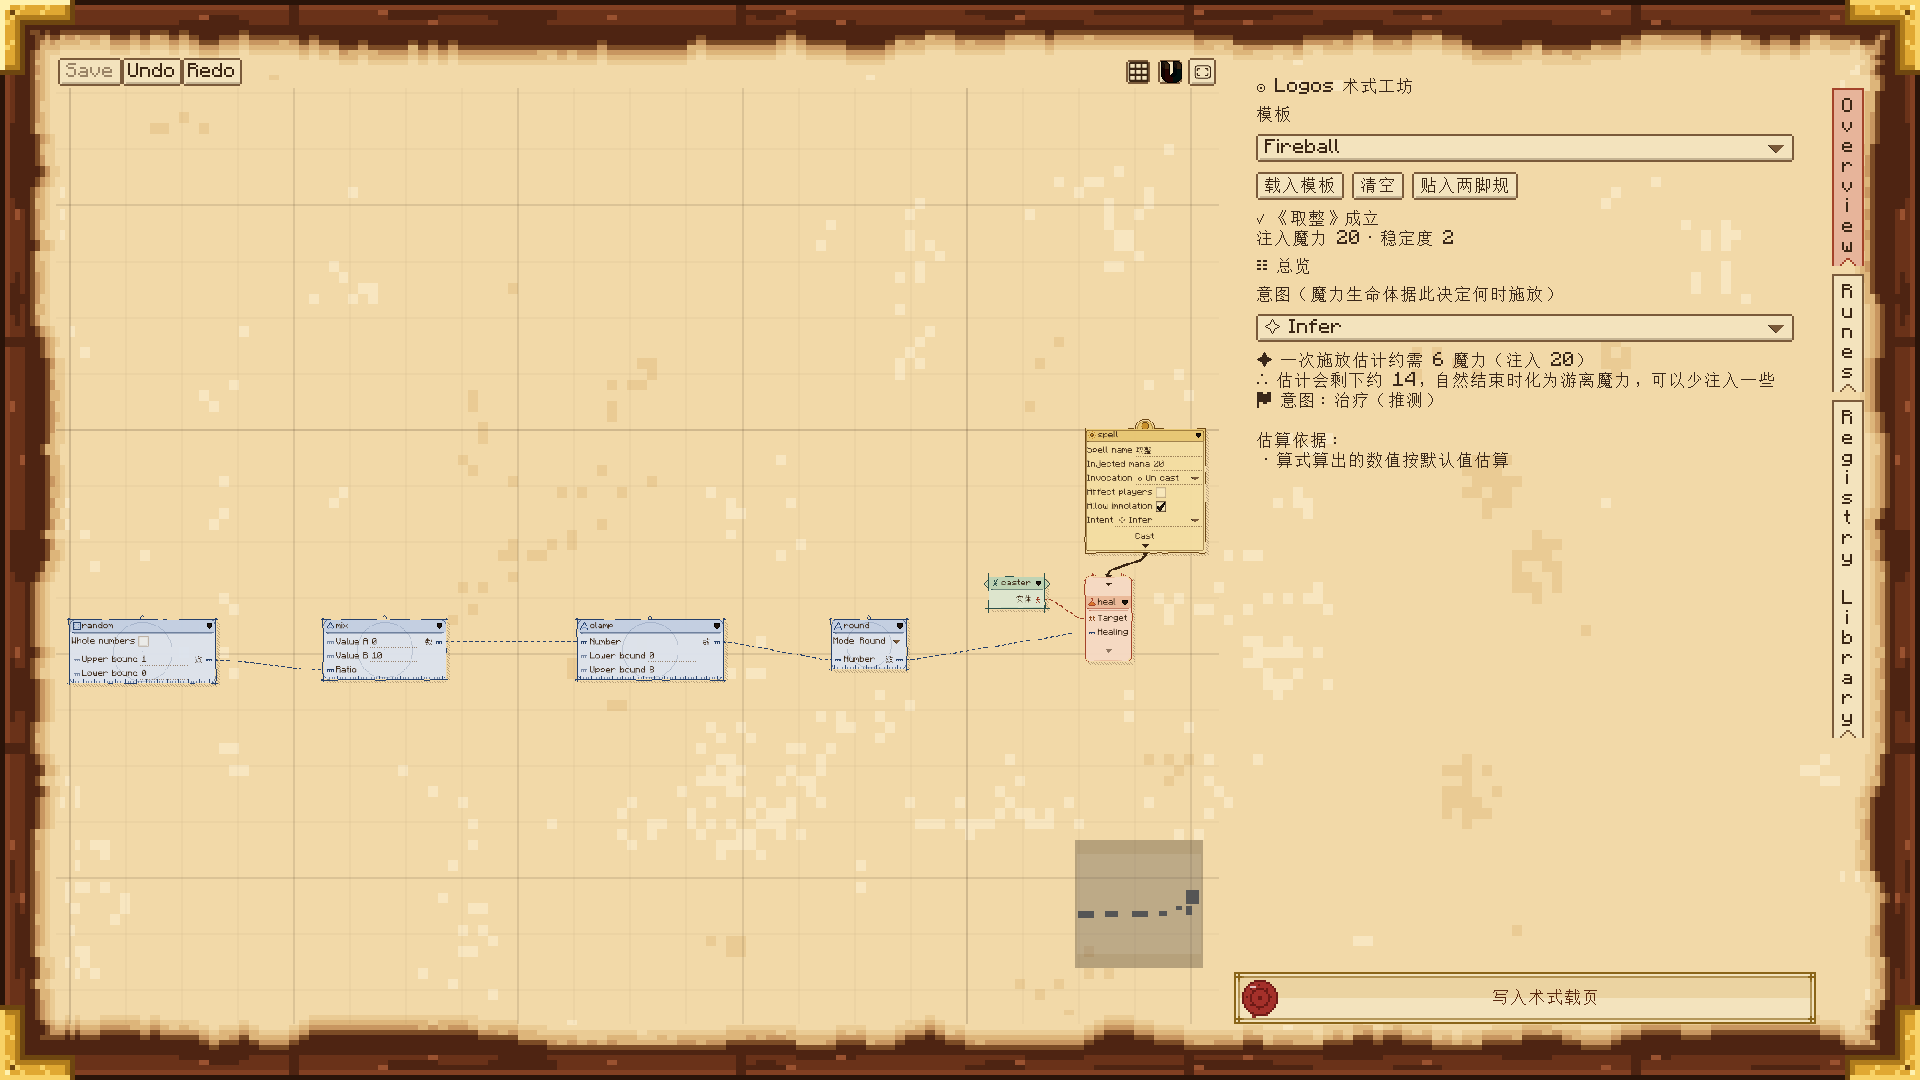
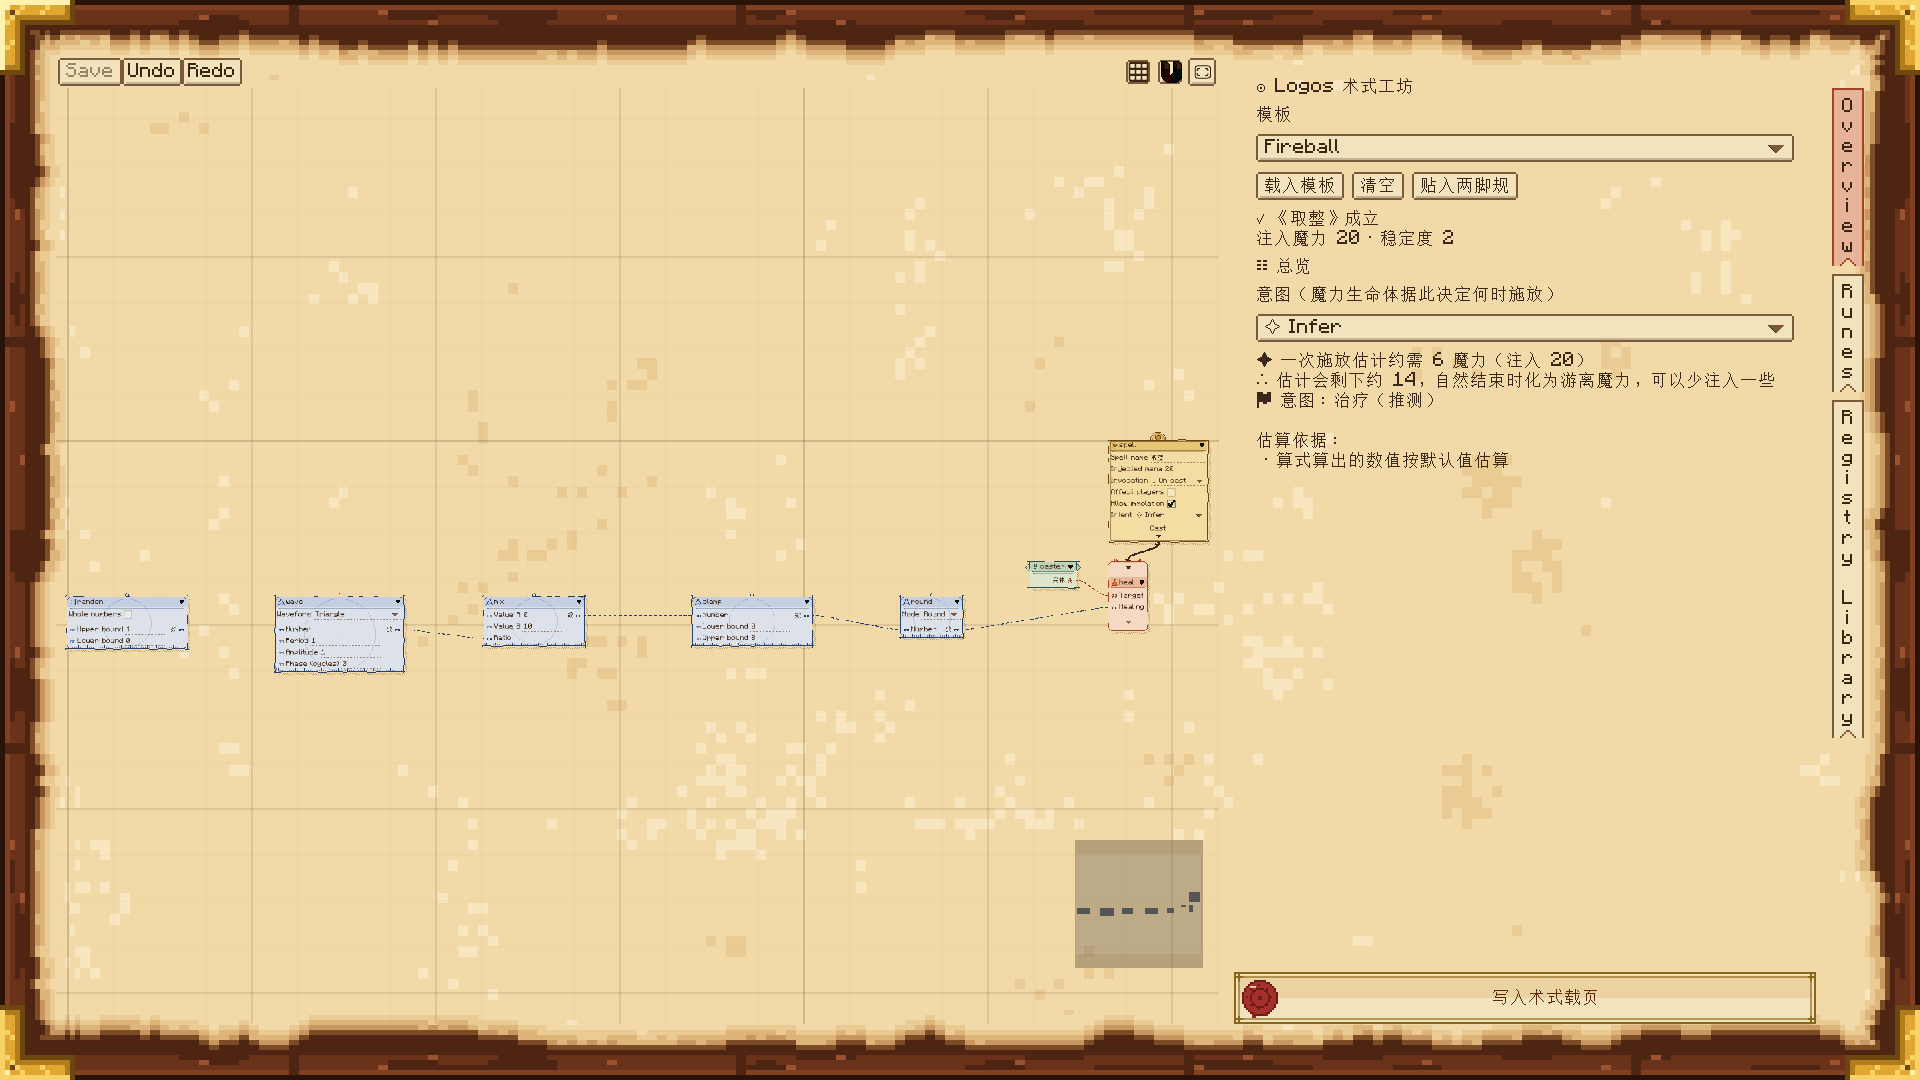
Add the wave rune: sine, triangle, sawtooth or square over x (#286)
Every shape starts at 0 rising and peaks a quarter cycle in, like sine
(square holds +amp first); :period, :amp and :phase scale and shift it.

Changed region(s): [[0.0312, 0.3972, 0.6562, 0.6417], [0.5625, 0.825, 0.625, 0.8556]]

diff --git a/src/main/java/dev/logos/gametest/LogosGameTests.java b/src/main/java/dev/logos/gametest/LogosGameTests.java
@@ -38,7 +38,7 @@ public final class LogosGameTests {
             "projectile_impact_expiry", "projectile_impact_wall", "projectile_impact_piercing",
             "fireball_hits_and_bursts", "chain_lightning_bounces", "execute_with_proof_is_cheap", "execute_without_proof_starves",
             "paradox_backfires", "recursion_is_bounded", "runaway_spawning_is_bounded", "attack_passive_fires", "marks_link_spells", "graph_roundtrip", "graph_rejects_bad_wires", "graph_errors_point_at_nodes", "context_wire_meanings", "config_limits_apply",
-            "world_toggle_state", "world_grow_and_decay", "world_players_flag", "world_nearest_player", "value_random", "value_mix", "value_round_clamp", "world_blink_target", "world_items_magnet", "world_nether_step", "world_time_skip", "world_weather_global", "world_weather_area", "world_lightning",
+            "world_toggle_state", "world_grow_and_decay", "world_players_flag", "world_nearest_player", "value_random", "value_mix", "value_round_clamp", "value_wave", "world_blink_target", "world_items_magnet", "world_nether_step", "world_time_skip", "world_weather_global", "world_weather_area", "world_lightning",
             "world_wand_casts_selected_page", "world_wood_wands_craft", "world_crystal_page_needs_adhesive", "world_echo_page_upgrade_keeps_spell", "world_transmuted_page_upgrade_keeps_spell", "world_chalk_page_upgrade_keeps_spell", "world_firmament_page_upgrade_keeps_spell",
             "wand_charges_then_casts", "wand_early_release_refunds", "wand_refuses_what_it_cannot_fill", "wand_switching_spell_cancels", "wand_page_caps_charge", "wand_charge_looks", "world_table_inscribes", "beam_follows_gaze", "field_heals_caster", "infuse_gives_mana", "field_spares_caster_without_players", "field_shields_caster_on_enter", "world_filter_kinds",
             "construct_stops_movement", "construct_one_way_arrows", "construct_shields_explosion", "construct_platform_stands", "construct_stops_other_spells", "construct_wears_down_and_breaks", "construct_void_pierces_weak_wall",
@@ -90,6 +90,7 @@ public final class LogosGameTests {
         FUNCTIONS.register("value_random", () -> ValueGameTests::random);
         FUNCTIONS.register("value_mix", () -> ValueGameTests::mix);
         FUNCTIONS.register("value_round_clamp", () -> ValueGameTests::roundClamp);
+        FUNCTIONS.register("value_wave", () -> ValueGameTests::wave);
         FUNCTIONS.register("world_nearest_player", () -> WorldGameTests::nearestPlayer);
         FUNCTIONS.register("world_items_magnet", () -> WorldGameTests::itemsMagnet);
         FUNCTIONS.register("world_filter_kinds", () -> WorldGameTests::filterKinds);

diff --git a/src/main/java/dev/logos/client/uitest/ValueRunesScenario.java b/src/main/java/dev/logos/client/uitest/ValueRunesScenario.java
@@ -14,7 +14,7 @@ import dev.logos.graph.RuneNodes;
 import dev.logos.item.SpellPages;
 import net.minecraft.core.BlockPos;
 
-/** ⚖ round's choice keyword shows as a dropdown option beside clamp and mix, and compiles back to its word. */
+/** ⚖ round and wave choice keywords show as dropdown options beside clamp and mix, and compile back to their words. */
 @LDLRegisterClient(name = "logos_value_runes", group = "logos", registry = UIScenario.REGISTRY,
         environment = RegistrationEnvironment.DEV_ONLY)
 public class ValueRunesScenario implements UIScenario {
@@ -23,8 +23,8 @@ public class ValueRunesScenario implements UIScenario {
 
     @Override
     public void define(ScenarioBuilder s) {
-        s.step("open a graph with round, clamp and mix", ctx -> ClientHooks.openTableEditor(BlockPos.ZERO,
-                        SpellPages.fitting("(spell :name \"取整\" :mana 20 (heal caster (round (clamp (mix 0 10 (random)) :max 8) :mode up)))")))
+        s.step("open a graph with round, clamp, mix and wave", ctx -> ClientHooks.openTableEditor(BlockPos.ZERO,
+                        SpellPages.fitting("(spell :name \"取整\" :mana 20 (heal caster (round (clamp (mix 0 10 (wave (random) :shape triangle)) :max 8) :mode up)))")))
                 .awaitModularUI().ticks(10)
                 .step("the round node keeps its mode", ctx -> {
                     var view = ctx.ui().select("#spell_navigation", GraphPreview.class).findFirst().orElseThrow().graphView;
@@ -33,6 +33,8 @@ public class ValueRunesScenario implements UIScenario {
                     ctx.check("mode option is up", "up".equals(round.option(RuneNode.choice("mode"), String.class)));
                     ctx.check("mode is not a wire port", round.in(RuneNode.kw("mode")) == null);
                     ctx.check("round has its descriptions", !round.doc().contains("尚待补充"));
+                    var wave = graph.getNodes().stream().filter(n -> n instanceof RuneNodes.Wave).map(n -> (RuneNodes.Wave) n).findFirst().orElseThrow();
+                    ctx.check("wave shape option is triangle", "triangle".equals(wave.option(RuneNode.choice("shape"), String.class)));
                     var compiled = GraphCompiler.compile(graph);
                     ctx.check("graph compiles back to :mode up", compiled.ok() && compiled.source().contains(":mode up"));
                 }).screenshot("value_runes")

diff --git a/src/main/java/dev/logos/lang/Runes.java b/src/main/java/dev/logos/lang/Runes.java
@@ -1389,6 +1389,11 @@ public final class Runes {
 
     // ---- 数 Values ---------------------------------------------------------------------------
 
+    /** The part of {@code t} past its whole cycles, 0~1 (also for negative t). */
+    private static double frac(double t) {
+        return t - Math.floor(t);
+    }
+
     private static void fold(String name, DoubleBinaryOperator op, String doc) {
         def(name, VALUE, NUM).rest("x", NUM).doc(doc).exec((n, c) -> {
             double acc = num(n.args.getFirst(), c);
@@ -1449,6 +1454,23 @@ public final class Runes {
                 .exec((n, c) -> {
                     double lo = num(kw(n, "min"), c), hi = num(kw(n, "max"), c);
                     return Math.clamp(num(n.arg(0), c), Math.min(lo, hi), Math.max(lo, hi));
+                });
+        def("wave", VALUE, NUM).p("x", NUM).choice("shape", "sine", "triangle", "saw", "square")
+                .kw("period", NUM, "1").kw("amp", NUM, "1").kw("phase", NUM, "0")
+                .doc("波：随 x 往复的数，在 -amp~amp 之间。:shape sine 正弦、triangle 三角、saw 锯齿（匀速升起后跌回）、square 方波；"
+                        + ":period 每多少 x 重复一次（默认 1），:phase 把波形提前几分之几个周期。x 接循环序号或时间即可做出律动")
+                .exec((n, c) -> {
+                    double period = num(kw(n, "period"), c);
+                    if (period == 0) return 0.0;
+                    double t = num(n.arg(0), c) / period + num(kw(n, "phase"), c);
+                    // Every shape starts at 0 rising (square at +1) and peaks a quarter cycle in, like sine.
+                    double y = switch (choice(n, "shape")) {
+                        case "triangle" -> 4 * Math.abs(frac(t - 0.25) - 0.5) - 1;
+                        case "saw" -> 2 * frac(t + 0.5) - 1;
+                        case "square" -> frac(t) < 0.5 ? 1 : -1;
+                        default -> Math.sin(2 * Math.PI * t);
+                    };
+                    return num(kw(n, "amp"), c) * y;
                 });
         def("random", VALUE, NUM).opt("max", NUM, "1").kw("min", NUM, "0").flag("whole")
                 .doc("min~max 之间的随机数（默认 0~1，不含 max）。:whole 取整数，两端都可能取到，如 (random 6 :min 1 :whole) 掷骰")

diff --git a/src/main/java/dev/logos/graph/NodeDescriptions.java b/src/main/java/dev/logos/graph/NodeDescriptions.java
@@ -582,6 +582,14 @@ public final class NodeDescriptions {
             Map.entry("clamp/param/x", "要约束的数。"),
             Map.entry("clamp/param/min", "允许的最小值，默认 0；与上限写反时两者互换。"),
             Map.entry("clamp/param/max", "允许的最大值，默认 1。"),
+            Map.entry("wave/intro", "随输入往复起伏的数：输入每走过一个周期，波形重复一次。"),
+            Map.entry("wave/result", "在 −振幅 ~ +振幅 之间的数。各波形都从 0 起、向上升，在四分之一周期处到达峰值（方波从 +振幅 起）。"
+                    + "需要 0~1 时可接入调和或约束。"),
+            Map.entry("wave/param/x", "推动波形前进的数，例如重复的序号、距离或剩余魔力。"),
+            Map.entry("wave/param/shape", "正弦：圆滑起伏；三角：匀速升降；锯齿：匀速升起后跌回；方波：在 +振幅 与 −振幅 之间跳变。"),
+            Map.entry("wave/param/period", "输入走过多少重复一次，默认 1；为 0 时结果为 0。"),
+            Map.entry("wave/param/amp", "波峰的高度，默认 1；负数时上下翻转。"),
+            Map.entry("wave/param/phase", "把波形提前多少个周期，默认 0；0.25 即提前四分之一周期。"),
             Map.entry("count/intro", "统计已有实体群中的成员数，不重新搜寻世界。"),
             Map.entry("count/result", "该实体群中记录的实体数量。"),
             Map.entry("count/param/targets", "需要计数的实体群。"),

diff --git a/src/main/java/dev/logos/gametest/ValueGameTests.java b/src/main/java/dev/logos/gametest/ValueGameTests.java
@@ -81,4 +81,24 @@ final class ValueGameTests {
         h.assertTrue(v.num("(clamp 12 :min 2 :max 10)") == 10 && v.num("(clamp 5 :min 10 :max 2)") == 5, "clamp to given bounds, swapped when reversed");
         h.succeed();
     }
+
+    /** Every waveform starts at 0 rising and peaks a quarter cycle in (square holds +amp, then -amp); period, amp and phase scale it. */
+    static void wave(GameTestHelper h) {
+        Values v = new Values(h);
+        String[][] cases = {
+                // shape, value at 0, 0.25, 0.5, 0.75 of a cycle
+                {"sine", "0", "1", "0", "-1"}, {"triangle", "0", "1", "0", "-1"},
+                {"saw", "0", "0.5", "-1", "-0.5"}, {"square", "1", "1", "-1", "-1"}};
+        for (String[] c : cases) {
+            for (int k = 0; k < 4; k++) {
+                double got = v.num("(wave " + (k * 0.25) + " :shape " + c[0] + ")");
+                h.assertTrue(Math.abs(got - Double.parseDouble(c[k + 1])) < 1e-9, c[0] + " at " + (k * 0.25) + " should be " + c[k + 1] + ", got " + got);
+            }
+        }
+        h.assertTrue(Math.abs(v.num("(wave 5 :period 20 :amp 3)") - 3) < 1e-9, "period 20, amp 3: a quarter period in peaks at 3");
+        h.assertTrue(Math.abs(v.num("(wave 0 :phase 0.25)") - 1) < 1e-9, "phase 0.25 starts at the peak");
+        h.assertTrue(Math.abs(v.num("(wave -0.25 :shape triangle)") + 1) < 1e-9, "negative x keeps cycling");
+        h.assertTrue(v.num("(wave 3 :period 0)") == 0, "period 0 gives 0");
+        h.succeed();
+    }
 }

diff --git a/src/main/java/dev/logos/graph/RuneNodes.java b/src/main/java/dev/logos/graph/RuneNodes.java
@@ -575,6 +575,13 @@ public final class RuneNodes {
         }
     }
 
+    @NodeAttribute(name = "wave", group = VALUE, graphTypes = SpellGraph.class)
+    public static class Wave extends RuneNode {
+        public Wave() {
+            super("wave");
+        }
+    }
+
     @NodeAttribute(name = "mix_pos", group = BINDING, graphTypes = SpellGraph.class)
     public static class MixPos extends RuneNode {
         public MixPos() {
@@ -940,6 +947,7 @@ public final class RuneNodes {
         BY_RUNE.put("mix", Mix::new);
         BY_RUNE.put("round", Round::new);
         BY_RUNE.put("clamp", Clamp::new);
+        BY_RUNE.put("wave", Wave::new);
         BY_RUNE.put("mix-pos", MixPos::new);
         BY_RUNE.put("<", Lt::new);
         BY_RUNE.put(">", Gt::new);

diff --git a/src/test/java/dev/logos/lang/CompilerTest.java b/src/test/java/dev/logos/lang/CompilerTest.java
@@ -158,6 +158,14 @@ class CompilerTest {
     }
 
     @Test
+    void waveTakesAShapeAndScales() {
+        Node w = Compiler.compile("(let $w (wave i :shape saw :period 20 :amp 2) (do))").body().getFirst().arg(1);
+        assertEquals("saw", w.kw.get("shape").value);
+        assertEquals("sine", Compiler.compile("(let $w (wave 1) (do))").body().getFirst().arg(1).kw.get("shape").value);
+        assertError("(let $w (wave 1 :shape zigzag) (do))", "sine / triangle / saw / square");
+    }
+
+    @Test
     void playersNeedThePlayersSwitch() {
         assertError("(heal (players :radius 8) 2)", ":players true");
         Spell s = Compiler.compile("(spell :players true (heal (players :radius 8) 2))");
